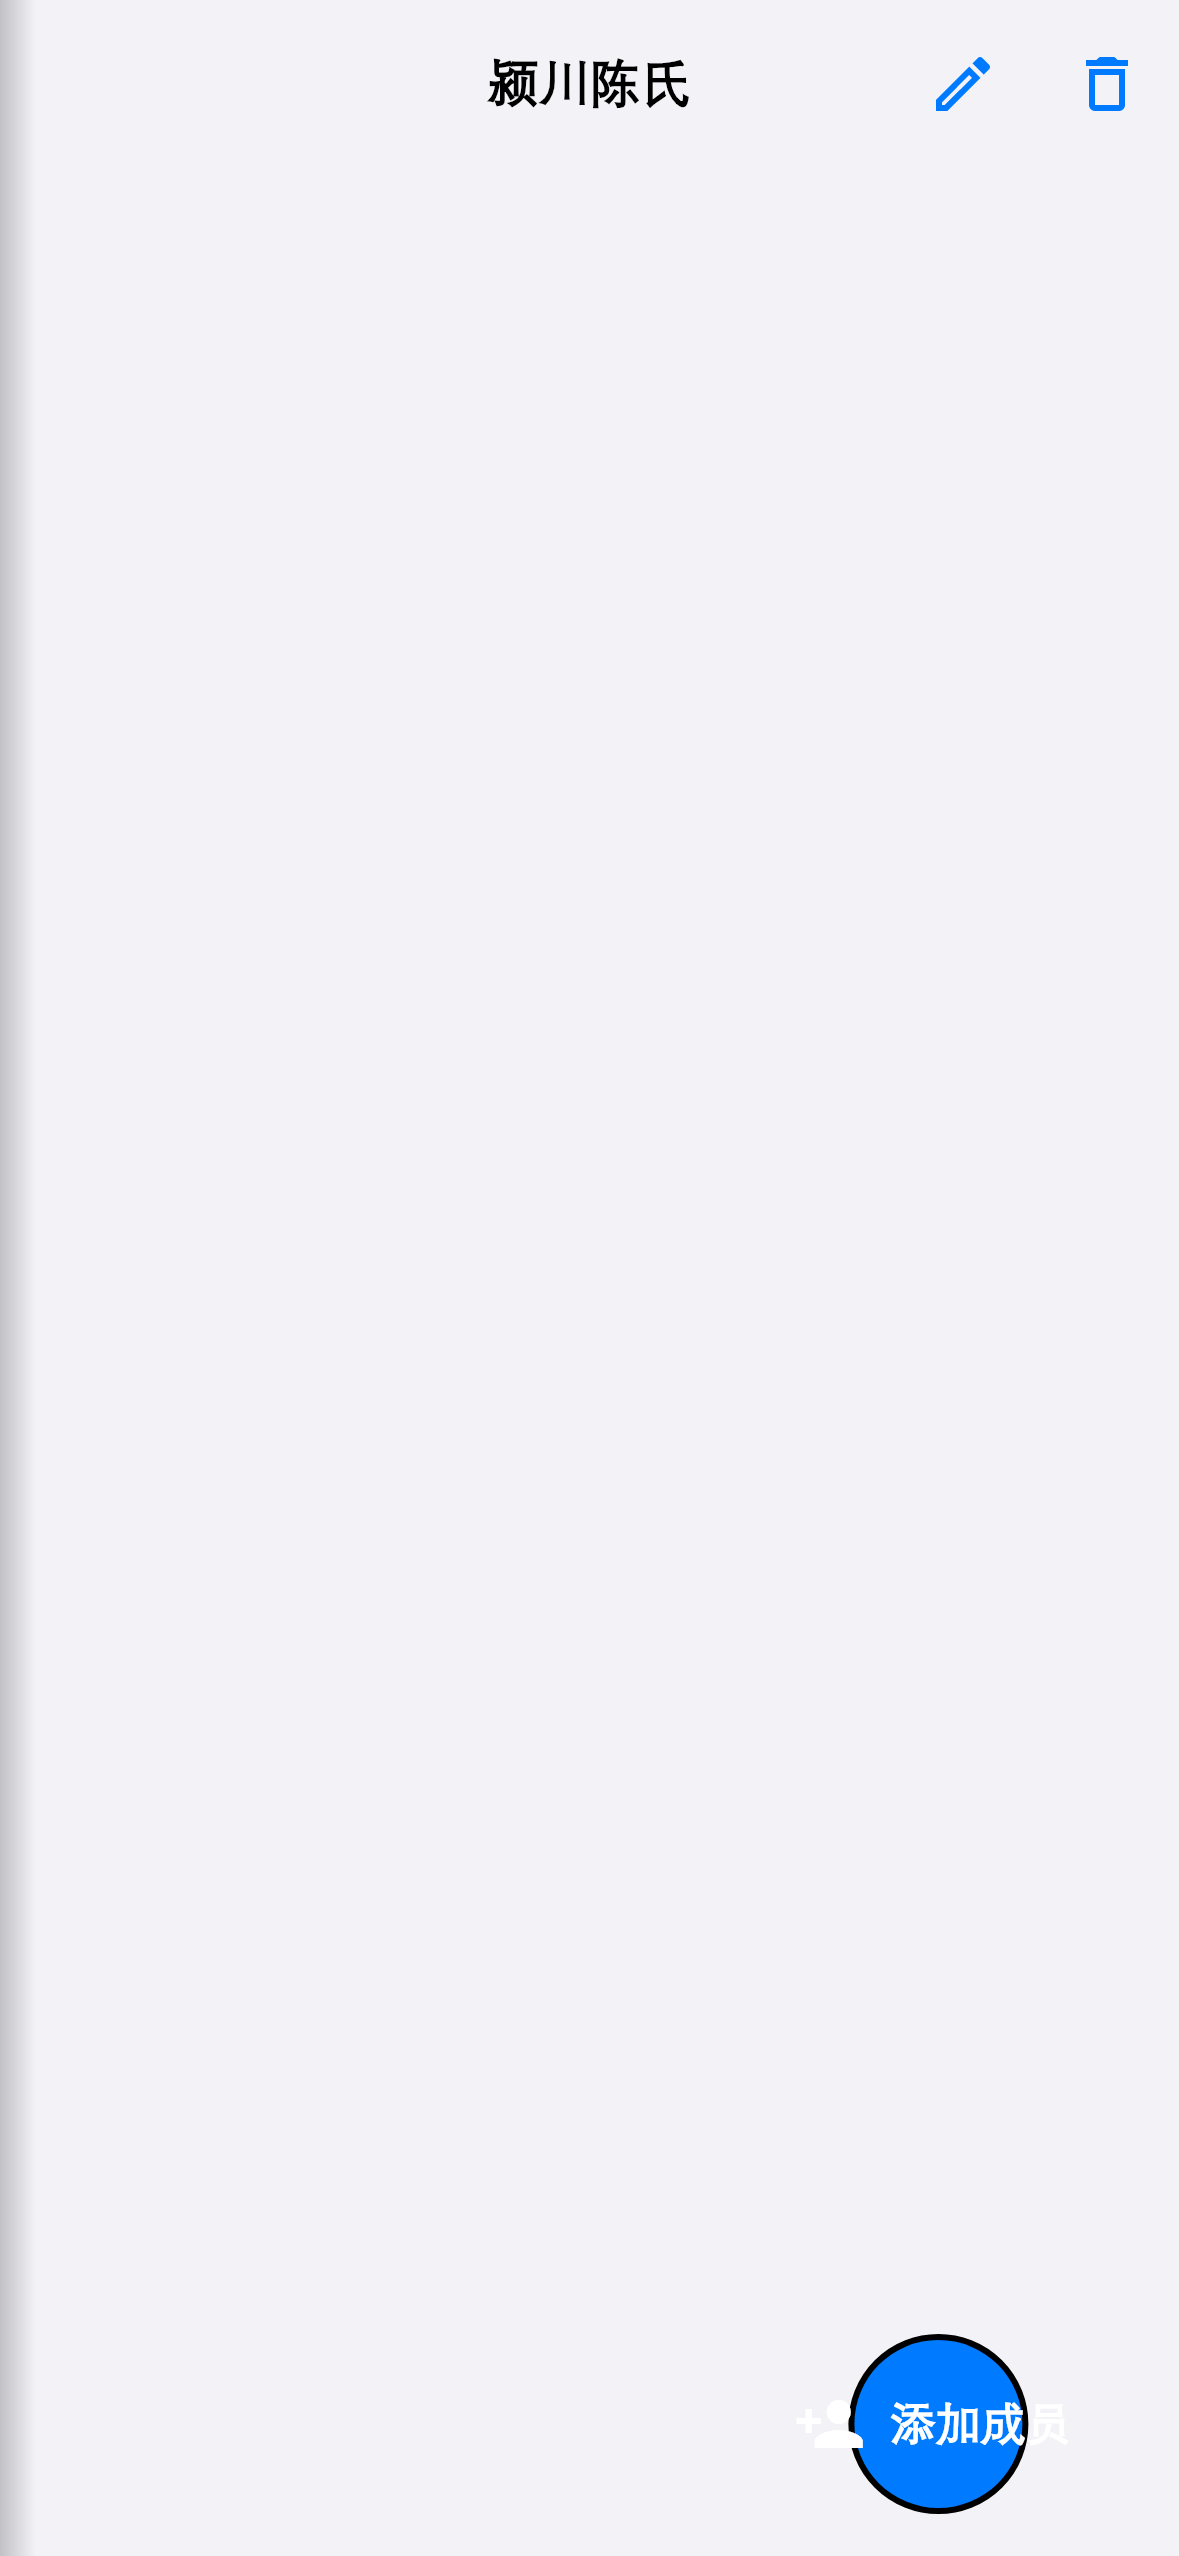
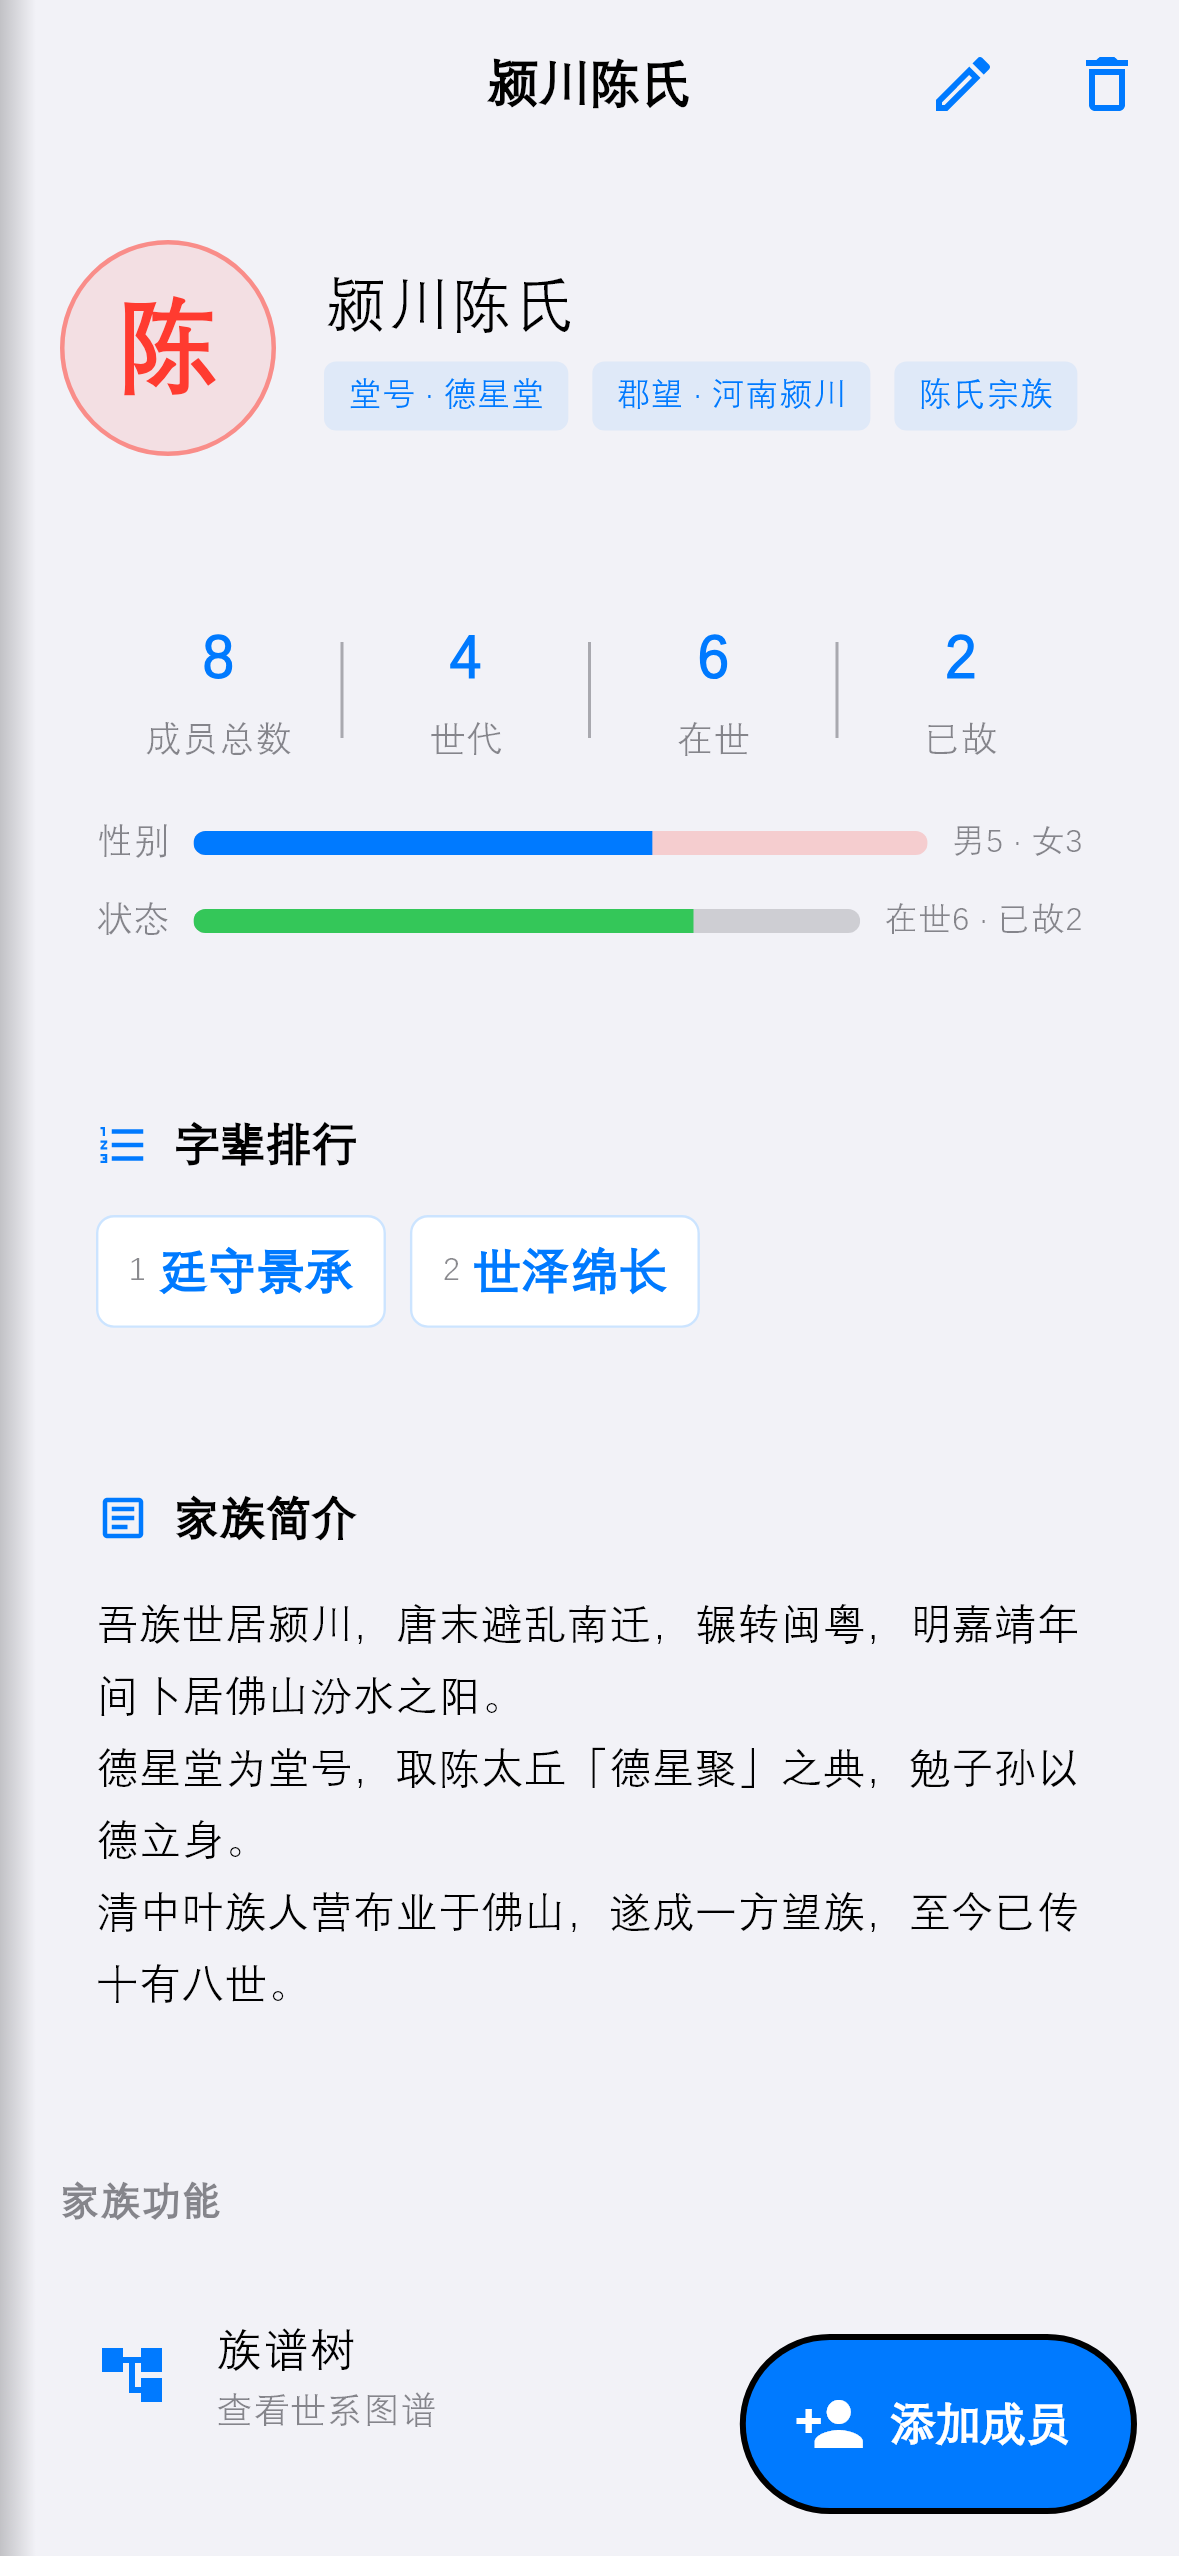
fix(family): 修复家族首页 FAB 文字溢出，并让首页截图真正拍到内容
问题 1：FAB 文字溢出
- 主题给 floatingActionButtonTheme 设了 CircleBorder（那是给纯图标 FAB 的），
  FamilyHomePage 用的却是 FloatingActionButton.extended，图标 + 「添加成员」
  被圆形容器裁到圈外。同页的 family_tree_page 早已就地为该 FAB 覆盖
  StadiumBorder，这里漏了同一行，补齐。真机与截图同时修复。

问题 2：02_family_home.png 是一张空白页
- 该截图正文全透明：ListView 布局正常（0,56,393,852），但 14 个 FadeTransition
  里 8 个停在 opacity 0 —— StaggerIn 用 Future.delayed(30ms×index) 延迟启动
  controller，那个定时器要等一次 elapse 才触发，于是「触发的那一帧」又成了
  Ticker 的基准帧，_settle 原有的两帧 800ms 全部被消耗在记录基准时间上。
- 应用本身无此问题（真机上是真实定时器，正常淡入），属截图测试的时序缺陷。
- 修 _settle：改为 4 帧 600ms，覆盖「错峰延迟 + 动画时长」。
- 重新生成 docs/screenshots/02_family_home.png（47 KB → 205 KB），
  其余 9 张逐字节不变。

验证：flutter test 99 全绿；flutter analyze 0 issues。

diff --git a/test/screenshot_capture_test.dart b/test/screenshot_capture_test.dart
@@ -456,14 +456,19 @@ Future<void> _pumpApp(WidgetTester tester, AppDatabase db) async {
 /// 注意：`pump(800ms)` **一次跑不完动画**。Ticker 的第一次 tick 只用来记录基准
 /// 时间（elapsed = 0），要再来一帧才会真正前进。所以「切换称谓」这类过渡在旧写法
 /// 下会停在第一帧——旧称谓还在、新称谓还没淡进来，截图就会拍到过渡瞬间。
-/// 多补一帧才叫真 settle。
+///
+/// 更隐蔽的是 [StaggerIn]：它用 `Future.delayed(30ms × index)` 延迟启动 controller，
+/// 那个定时器要等一次 elapse 才触发，于是「触发的那一帧」又成了新的基准帧。
+/// 只补两帧时错峰项会停在 opacity 0 —— 家族首页截图曾因此整页空白（列表布局正常、
+/// 只是全透明）。这里统一多补几帧，覆盖掉「错峰延迟 + 动画时长」。
 Future<void> _settle(WidgetTester tester, {int ms = 500}) async {
   await tester.runAsync(() async {
     await Future<void>.delayed(Duration(milliseconds: ms));
   });
   await tester.pump();
-  await tester.pump(const Duration(milliseconds: 800));
-  await tester.pump(const Duration(milliseconds: 800));
+  for (var i = 0; i < 4; i++) {
+    await tester.pump(const Duration(milliseconds: 600));
+  }
 }
 
 /// 用路由跳转（比点击更稳，不受具体控件与动画影响）

diff --git a/lib/features/family/presentation/family_home_page.dart b/lib/features/family/presentation/family_home_page.dart
@@ -221,6 +221,8 @@ class _FamilyHomeContent extends ConsumerWidget {
         ],
       ),
       floatingActionButton: FloatingActionButton.extended(
+        // 主题给 FAB 设了 CircleBorder，extended 会被压成圆形裁掉文字
+        shape: const StadiumBorder(),
         onPressed: () => context.push('/person/new?treeId=${family.id}'),
         icon: const Icon(Icons.person_add),
         label: Text('添加成员'.tr),
